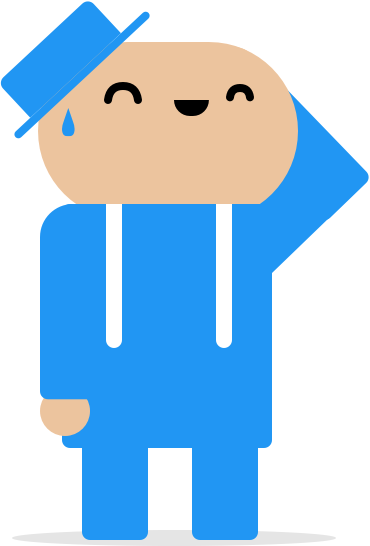
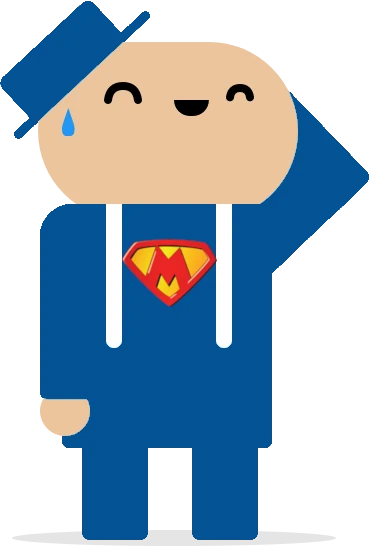
fix(mascot): source legacy artwork from TMS 8.1.6, not raw TGS
img/legacy/ was populated from plain upstream The Great Suspender
assets instead of TMS's own re-branded set (Marvellous "M" badge,
reworked snoozy_tab illustrations), most visibly on the SVGs where
the original ~2.6 KB TGS file was used instead of TMS's ~32 KB
reworked one. Re-sourced every asset from TMS 8.1.6: PNG toolbar
icons and SVGs copied as-is, illustrations re-converted to WebP
(cwebp -q 90 -m 6). gsMascot.js's mapping was already correct, only
the asset content was wrong.

diff --git a/CHANGELOG.md b/CHANGELOG.md
@@ -9,6 +9,9 @@ Entries under "Unreleased" live on a feature branch until merged into `master`.
 
 ## [Unreleased]
 
+### Fixed
+- **Legacy mascot artwork used the raw original TGS assets instead of TMS's own modified versions** (`img/legacy/`): the "Use the classic The Great Suspender artwork" option (added in 9.0.2) had every `img/legacy/` asset sourced from plain upstream The Great Suspender artwork rather than TMS 8.1.6's own re-branded set (the Marvellous "M" badge on the mascot's chest, TMS's reworked `snoozy_tab`/`snoozy_tab_awake` illustrations, etc.) — most visible on the SVGs, where the wrong ~2.6 KB "_original" TGS file had been used instead of TMS's ~32 KB reworked one. Re-sourced every asset from TMS 8.1.6 (`chromeDefaultFavicon(Sml)`, `chromeDevDefaultFavicon(Sml)`, `ic_suspendy_*`, `suspendy-guy*`, `snoozy_tab*`): toolbar/action PNG icons copied as-is, illustrations re-converted to WebP (`cwebp -q 90 -m 6`), SVGs copied as-is. No code changes — `gsMascot.js`'s mapping was already correct, only the asset content was wrong.
+
 ## [9.0.2] — 2026-08-06
 
 ### Added
